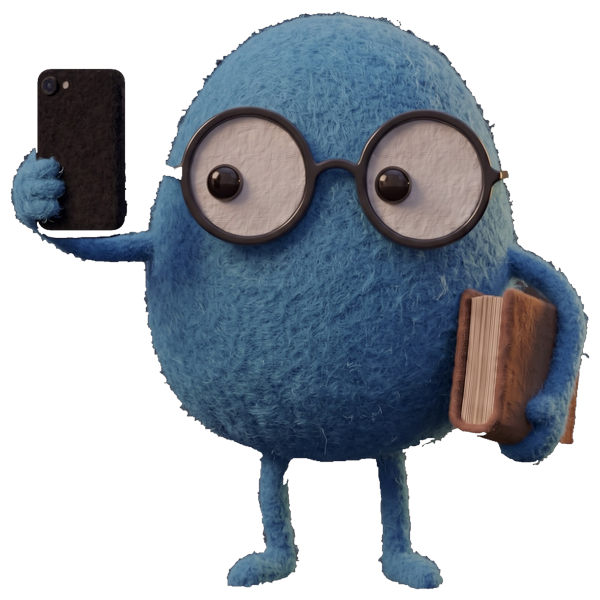
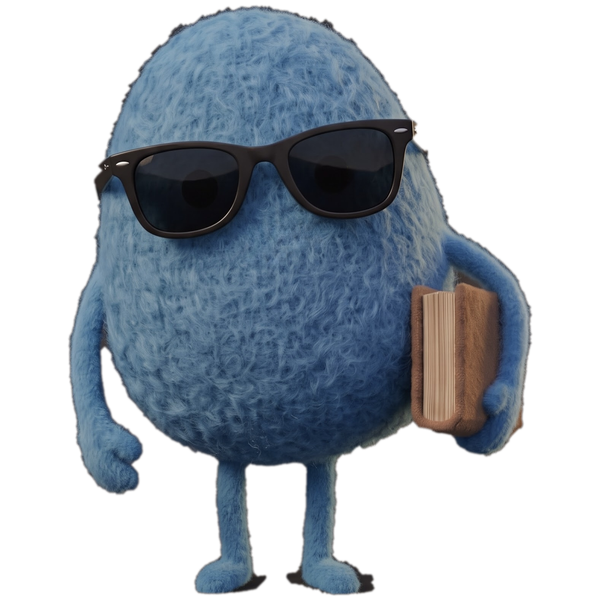
Blue reading character: Jörg's new one with sunglasses; cover editor: Start writing a little higher; grown-up question sideways fits
Claude-Session: https://claude.ai/code/session_01NDsvQ4w6b4M39K7iEhCswz

diff --git a/src/screens/Publisher.js b/src/screens/Publisher.js
@@ -671,7 +671,7 @@ export default function Publisher({ u, initial, fontKey, openMenu, toast, onChan
             {(() => {
               // room for the tools under the square (hidden while typing) and, upright, for Done at the bottom
               const toolsH = kbUp ? 60 : coverTitling ? 56 + (coverTool ? 96 : 0) : 0;
-              const doneH = kbUp || winW > winH ? 0 : 98;
+              const doneH = kbUp || winW > winH ? 0 : 138;
               const fitH = coverArea ? coverArea.h - toolsH - doneH - 8 : winW;
               const W = Math.max(120, Math.floor(Math.min(winW - insets.left - insets.right - 2 * GAP, fitH)));
               coverSize.current = W;
@@ -763,7 +763,7 @@ export default function Publisher({ u, initial, fontKey, openMenu, toast, onChan
           {coverTitling && coverTip && !kbUp ? <Toast message={tr('Tap the title to type. Drag it anywhere on the cover.')} area={{ left: GAP - 6, right: GAP - 6, bottom: 74 }} onDismiss={() => setCoverTip(false)} /> : null}
           {/* Done: bottom right, lined up with the cover's right edge */}
           {/* a new book: 'Start writing' goes on to page 1 (nobody is stuck on the cover) */}
-          {!kbUp ? <Pressable onPress={finishCover} hitSlop={8} accessibilityRole="button" style={[styles.donePill, { position: 'absolute', right: GAP + (wide ? 0 : insets.right), bottom: GAP, marginBottom: 0 }]}>{/* as far from the bar as from the right edge */}<Text style={styles.donePillText}>{startMode ? tr('Start writing') : tr('Done')}</Text></Pressable> : null}
+          {!kbUp ? <Pressable onPress={finishCover} hitSlop={8} accessibilityRole="button" style={[styles.donePill, { position: 'absolute', right: GAP + (wide ? 0 : insets.right), bottom: GAP + 40, marginBottom: 0 }]}>{/* as far from the bar as from the right edge */}<Text style={styles.donePillText}>{startMode ? tr('Start writing') : tr('Done')}</Text></Pressable> : null}
           {coverAsk ? (
             <View style={[StyleSheet.absoluteFill, styles.choiceBack]}>
               <View style={styles.choice}>
